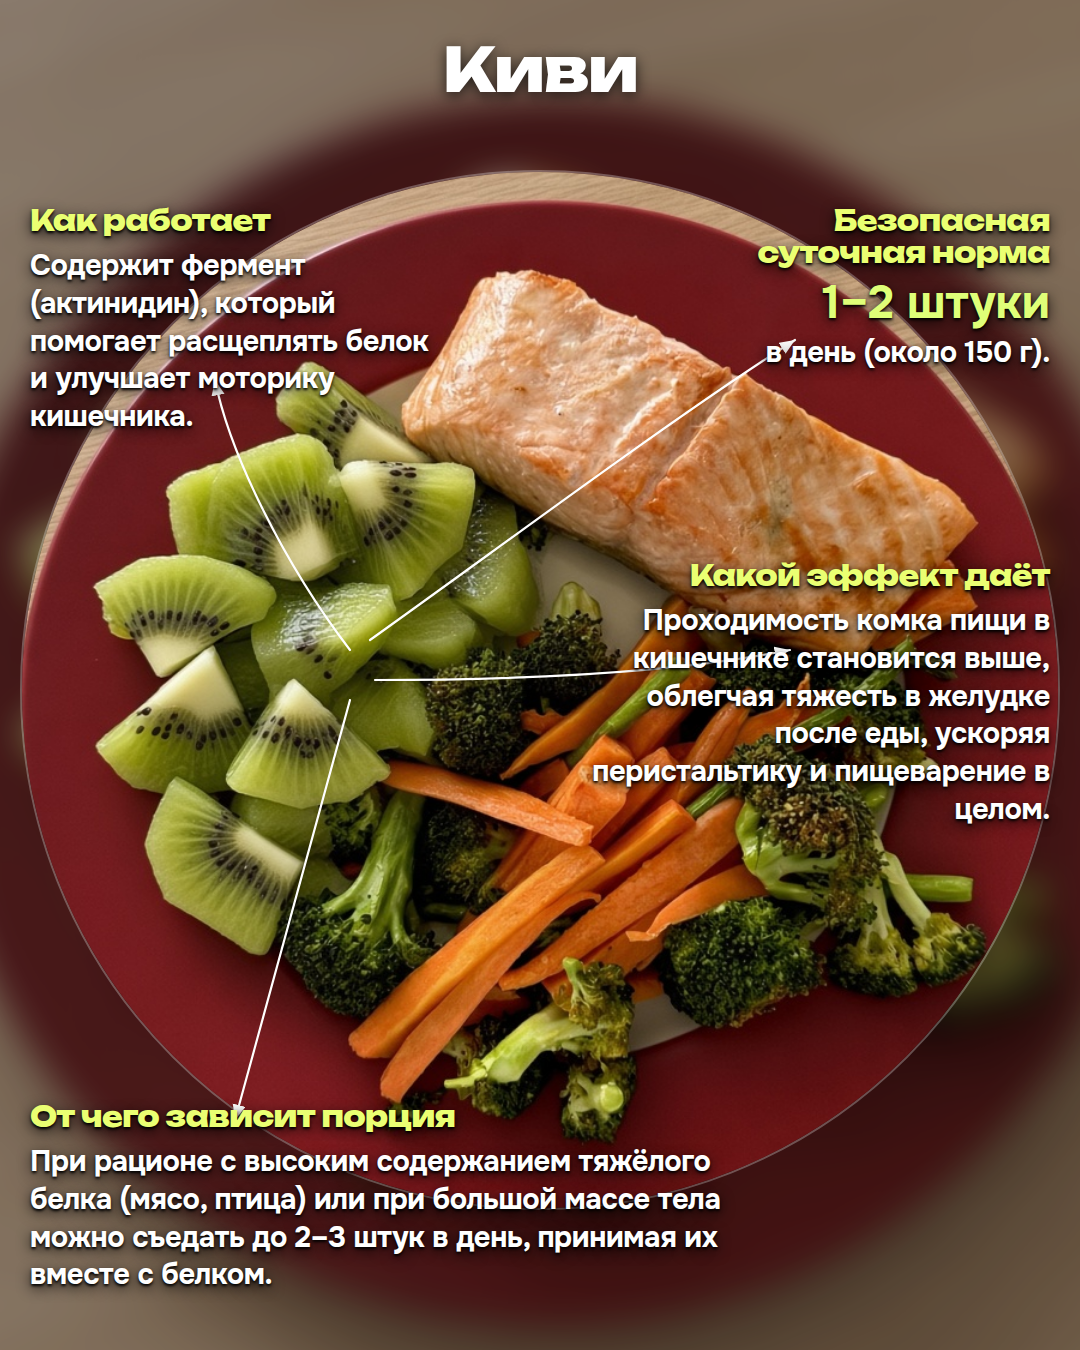
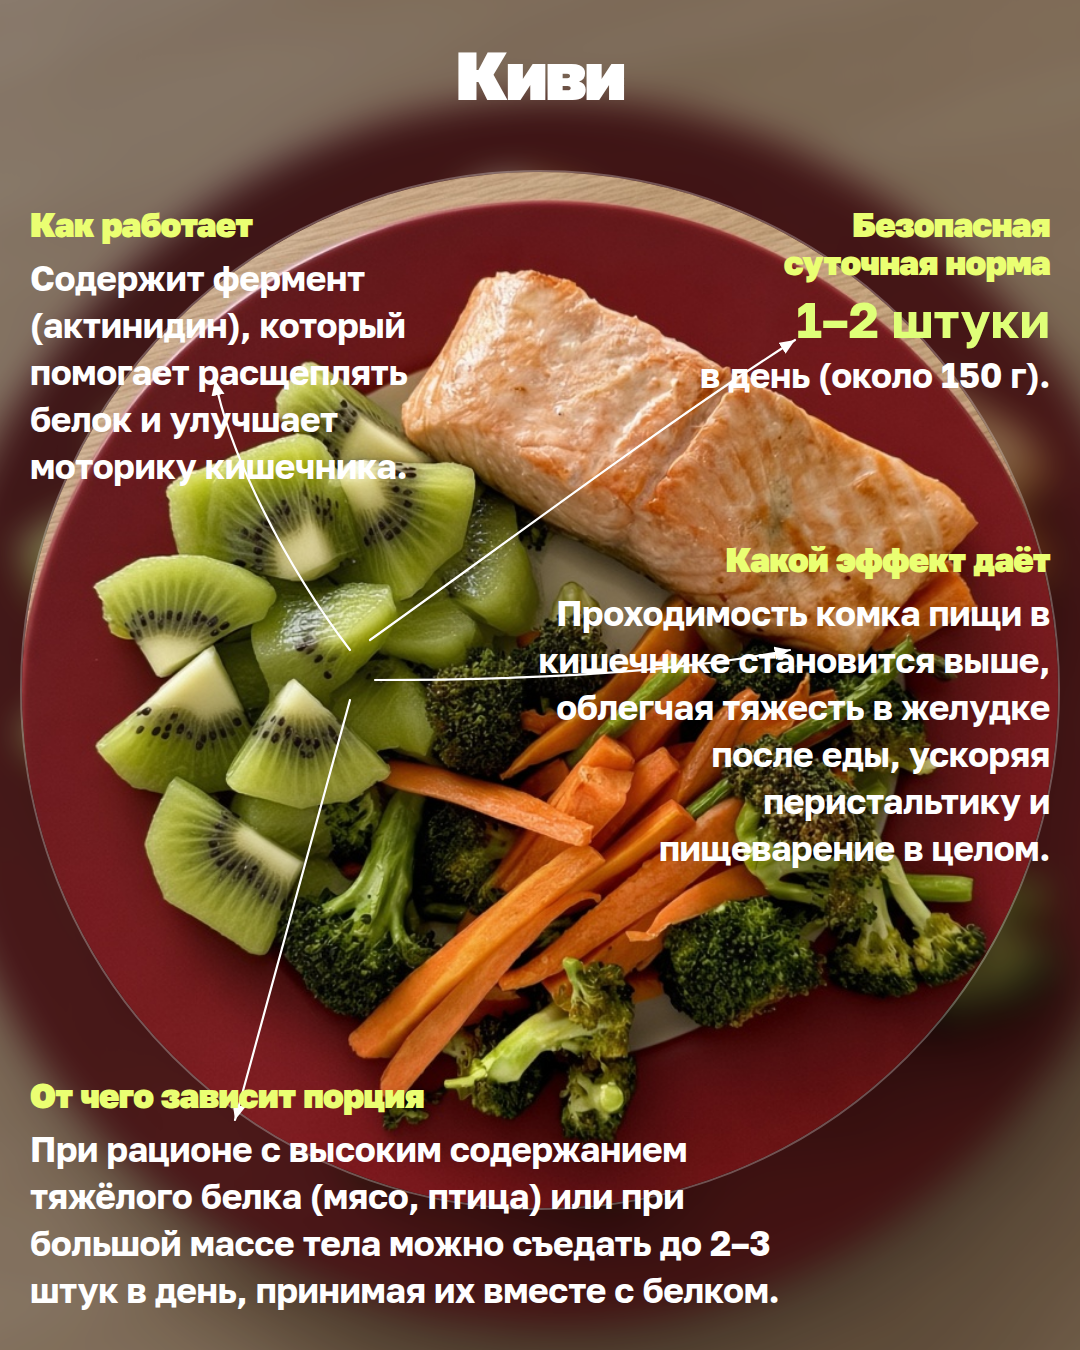
Switch kiwi slide to Golos Text for mobile legibility

diff --git a/instagram-fruits-zhkt/slide-02-kiwi.html b/instagram-fruits-zhkt/slide-02-kiwi.html
@@ -5,7 +5,7 @@
   <meta name="viewport" content="width=1080" />
   <link rel="preconnect" href="https://fonts.googleapis.com" />
   <link rel="preconnect" href="https://fonts.gstatic.com" crossorigin />
-  <link href="https://fonts.googleapis.com/css2?family=Onest:wght@500;600;700;800&family=Unbounded:wght@600;700;800&display=swap" rel="stylesheet" />
+  <link href="https://fonts.googleapis.com/css2?family=Golos+Text:wght@500;600;700;800;900&display=swap" rel="stylesheet" />
   <style>
     * { box-sizing: border-box; margin: 0; padding: 0; }
     html, body {
@@ -19,7 +19,7 @@
       width: 1080px;
       height: 1350px;
       overflow: hidden;
-      font-family: "Onest", sans-serif;
+      font-family: "Golos Text", Arial, sans-serif;
       color: #ffffff;
       background: #8a694d;
     }
@@ -60,13 +60,14 @@
       right: 42px;
       z-index: 6;
       text-align: center;
-      font-family: "Unbounded", sans-serif;
-      font-size: 60px;
-      font-weight: 800;
+      font-family: "Golos Text", Arial, sans-serif;
+      font-size: 68px;
+      font-weight: 900;
       font-style: normal;
       line-height: 1.08;
-      letter-spacing: -.025em;
-      text-shadow: 0 3px 14px rgba(0,0,0,.72);
+      letter-spacing: -.035em;
+      color: #ffffff;
+      text-shadow: none;
     }
     .arrows {
       position: absolute;
@@ -77,56 +78,54 @@
     .callout {
       position: absolute;
       z-index: 5;
-      text-shadow:
-        0 2px 3px rgba(0,0,0,1),
-        0 4px 14px rgba(0,0,0,.82);
+      text-shadow: none;
     }
     .callout h2 {
-      font-family: "Unbounded", sans-serif;
-      font-size: 28px;
-      line-height: 1.15;
-      font-weight: 800;
-      font-style: normal;
-      margin-bottom: 10px;
+      font-family: "Golos Text", Arial, sans-serif;
+      font-size: 34px;
+      line-height: 1.12;
+      font-weight: 900;
+      margin-bottom: 12px;
       color: #eaff72;
-      letter-spacing: -.02em;
+      letter-spacing: -.025em;
     }
     .callout p {
-      font-size: 29px;
-      line-height: 1.3;
+      font-size: 35px;
+      line-height: 1.34;
       font-weight: 700;
-      letter-spacing: -.012em;
-      -webkit-text-stroke: .2px rgba(255,255,255,.35);
+      letter-spacing: -.01em;
+      color: #ffffff;
+      -webkit-text-stroke: 0;
     }
     .work {
       top: 205px;
       left: 30px;
-      width: 420px;
+      width: 455px;
       text-align: left;
     }
     .norm {
       top: 205px;
       right: 30px;
-      width: 330px;
+      width: 355px;
       text-align: right;
     }
     .norm strong {
       display: block;
       color: #dfff78;
-      font-size: 46px;
+      font-size: 50px;
       line-height: 1.05;
       margin: 6px 0;
     }
     .effect {
-      top: 560px;
+      top: 540px;
       right: 30px;
-      width: 470px;
+      width: 520px;
       text-align: right;
     }
     .portion {
       left: 30px;
-      bottom: 56px;
-      width: 710px;
+      bottom: 36px;
+      width: 790px;
       text-align: left;
     }
   </style>
